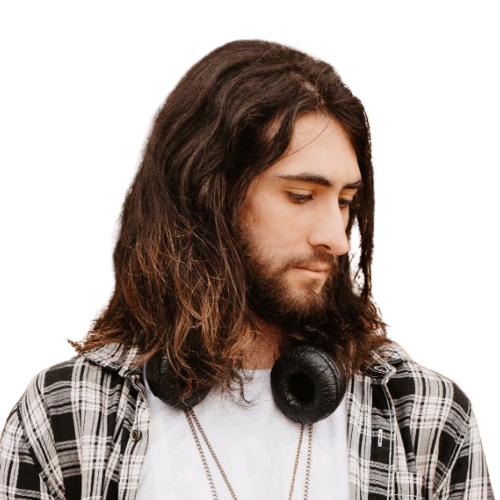
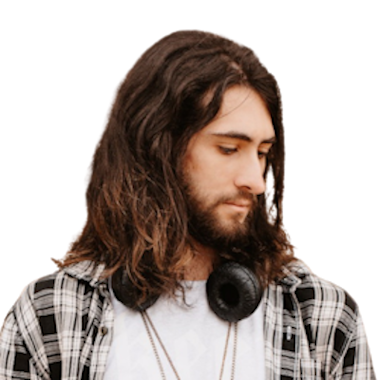
image rezised, who we are text, some style changes

diff --git a/index.html b/index.html
@@ -27,7 +27,7 @@
         width: 285px;
         height: 285px;
         border: 4px solid;
-        border-color: blue;
+        border-color: rgb(40, 116, 204);
         border-radius: 100%;
         background-color: rgb(231, 231, 231);
       }
@@ -75,7 +75,7 @@
         <nav class="navbar navbar-expand-lg justify-content-center">
           <div class="container-fluid">
             <a class="navbar-brand" href="index.html">
-              <img src="images/logo.png" width="150px" />
+              <img src="images/logos/logo.png" width="150px" />
             </a>
 
             <button
@@ -165,22 +165,14 @@
                 <h1 class="text-dark font-weight-bold">Quem somos nós</h1>
               </div>
               <div class="row">
-                Lorem ipsum dolor sit amet, consectetur adipiscing elit. Mauris
-                volutpat sapien a est fringilla blandit. Aenean non molestie
-                risus. Curabitur sit amet fringilla lorem. Proin malesuada orci
-                sed ligula facilisis ultricies. Donec sed purus ut mi vehicula
-                dapibus. Nullam vel elit est. Nullam sagittis velit et arcu
-                vulputate, at facilisis justo porta. Duis ante mi, laoreet non
-                volutpat sed, commodo nec lacus. Vestibulum blandit, libero vel
-                feugiat commodo, tellus arcu tincidunt ex, in lobortis velit leo
-                eget massa. Ut et lacinia urna. Morbi non sapien cursus, cursus
-                arcu non, suscipit magna. Aenean pulvinar, magna id tempor
-                ornare, ipsum urna tempus nisi, nec ultrices massa nulla at
-                quam. Phasellus tortor metus, egestas quis egestas eget,
-                malesuada in augue. Mauris luctus mattis purus ac ullamcorper.
-                Maecenas volutpat non enim sit amet euismod. Orci varius natoque
-                penatibus et magnis dis parturient montes, nascetur ridiculus
-                mus.
+                <p>Supervisão inteligente, confiável, contínua, escalável e acessível. Sempre com o olho no enlace, OnE!
+                  O Laboratório de Telecomunicações (LabTel) e o Núcleo de Estudos em Redes Definidas por Software (NERDS)
+                  da Universidade Federal do Espírito Santo (UFES) compõem o <a href="#" class="gt_one_text">GT-OnE</a>, uma solução para o monitoramento de 
+                  plantas de cabos ópticos em campus universitários e redes metropolitanas. Assim, com a implementação de 
+                  dispositivos da internet das coisas e aprendizagem de máquina na nuvem, o <a href="#" class="gt_one_text">GT-OnE</a> mantém a rede sempre 
+                  disponível, detectando eventos adversos em tempo real, facilitando e economizando as operações associadas.
+                 </p>
+                
               </div>
             </div>
 
@@ -368,7 +360,7 @@
         showSlide(currentIndex);
       }
 
-      setInterval(nextSlide, 5000); // Altera o slide a cada 3 segundos (3000 milissegundos)
+      setInterval(nextSlide, 4000); // Altera o slide a cada 3 segundos (3000 milissegundos)
     </script>
   </body>
 </html>

diff --git a/pages/FaleConosco.html b/pages/FaleConosco.html
@@ -20,10 +20,10 @@
     <style>
 
       body {
-        background-color: #f4f6f9;
+        background-color: #fff;
       }
       .bg-contato {
-        background-image: url("../images/imagem_fundo_2_4.png");
+        background-image: url("../images/logos/imagem_fundo_2_4.png");
       }
       .contact-form {
         background-color: #fff;
@@ -45,7 +45,7 @@
         <nav class="navbar navbar-expand-lg">
           <div class="container-fluid">
             <a class="navbar-brand" href="../index.html">
-              <img src="../images/logo.png" width="150px" />
+              <img src="../images/logos/logo.png" width="150px" />
             </a>
 
             <button
@@ -93,25 +93,24 @@
             Use os canais disponíveis - solicite um orçamento:
           </p>
 
-          <ul class="hiper">
+          <!-- <ul class="hiper">
             <li>
               <a class="text-white"> Instagram </a>
             </li>
             <li>
               <a class="text-white"> Whatsapp </a>
             </li>
-          </ul>
+          </ul> -->
 
           <hr class="light" />
           <br />
         </div>
       </div>
 
-      <div class="container-fluid w-100">
-        <div class="row">
-          <div class="col-md-6 text-center imagem-contato">
-            <img src="../images/contato.png" />
-          </div>
+      <div class="container w-100">
+          <!-- <div class="col-md-6 text-center imagem-contato">
+                <img src="../images/logos/.png" /> 
+          </div> -->
 
           <div class="col-md-6">
             <div class="contact-form">
@@ -225,7 +224,6 @@
               </div>
             </div>
           </div>
-        </div>
       </div>
     </div>
 

diff --git a/pages/Servicos.html b/pages/Servicos.html
@@ -34,7 +34,7 @@
                 
                 <a class="navbar-brand" href="../index.html">
 
-                    <img src="../images/logo.png" width="150px">
+                    <img src="../images/logos/logo.png" width="150px">
 
                 </a>
             
@@ -99,7 +99,8 @@
                     <div class="row my-5 ">
                         <h2>Redes metropolitanas</h2>
                         <h5>Uma solução de cabe no seu bolso!</h5>
-                        <p>Descubra a localização de um evento assim que ele acontece.</p>
+                        <p>Descubra a localização de um evento assim que ele acontece. Mantenha sua rede sempre on-line 
+                            com o monitoramento em tempo real.  </p>
                     </div>
             
                 </div>

diff --git a/pages/faleconosco.css b/pages/faleconosco.css
@@ -53,7 +53,7 @@ Para toda a página*/ /**/
 }
 
 .bg-image{
-    background-image: url(../images/imagem_fundo_2_4.png);
+    background-image: url(../images/logos/imagem_fundo_2_4.png);
     background-repeat: no-repeat;
     background-size: 100%;
 }
@@ -165,8 +165,7 @@ form .button {
       height: 75%;
       margin-top: 0;
       margin-bottom: 0;
-  }
-
+  } 
 } 
 
 @media (max-width: 576px){

diff --git a/site.css b/site.css
@@ -51,11 +51,13 @@ Para toda a página*/ /**/
 }
 
 .bg-image{
-    background-image: url(images/imagem_fundo_2_4.png);
+    background-image: url(images/logos/imagem_fundo_2_4.png);
     background-repeat: no-repeat;
     background-size: 100%;
 }
-
+a.gt_one_text{
+    color: rgb(45, 119, 205);
+}
 /* Medias queries */
 
 @media (max-width: 1080px){
